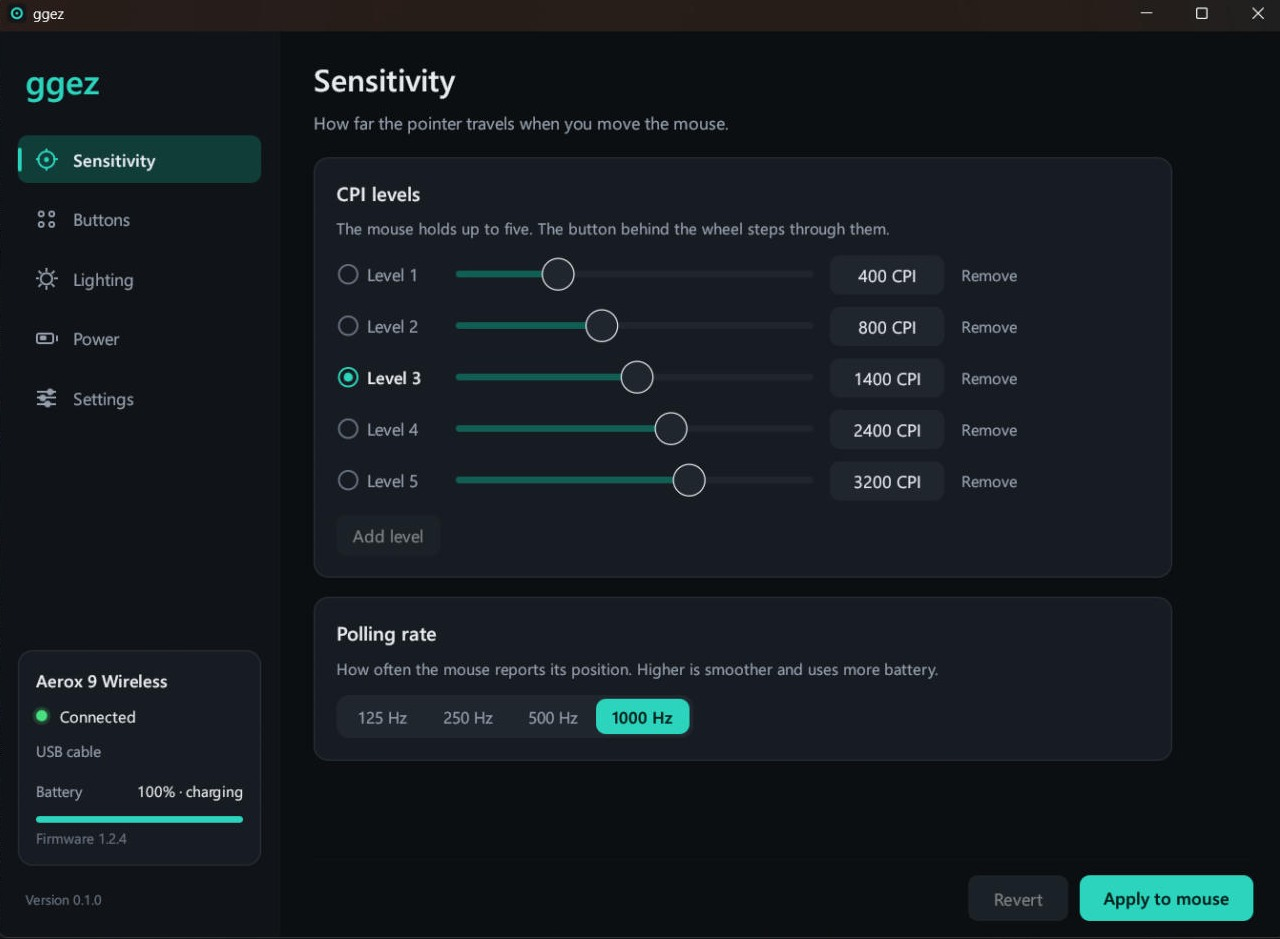
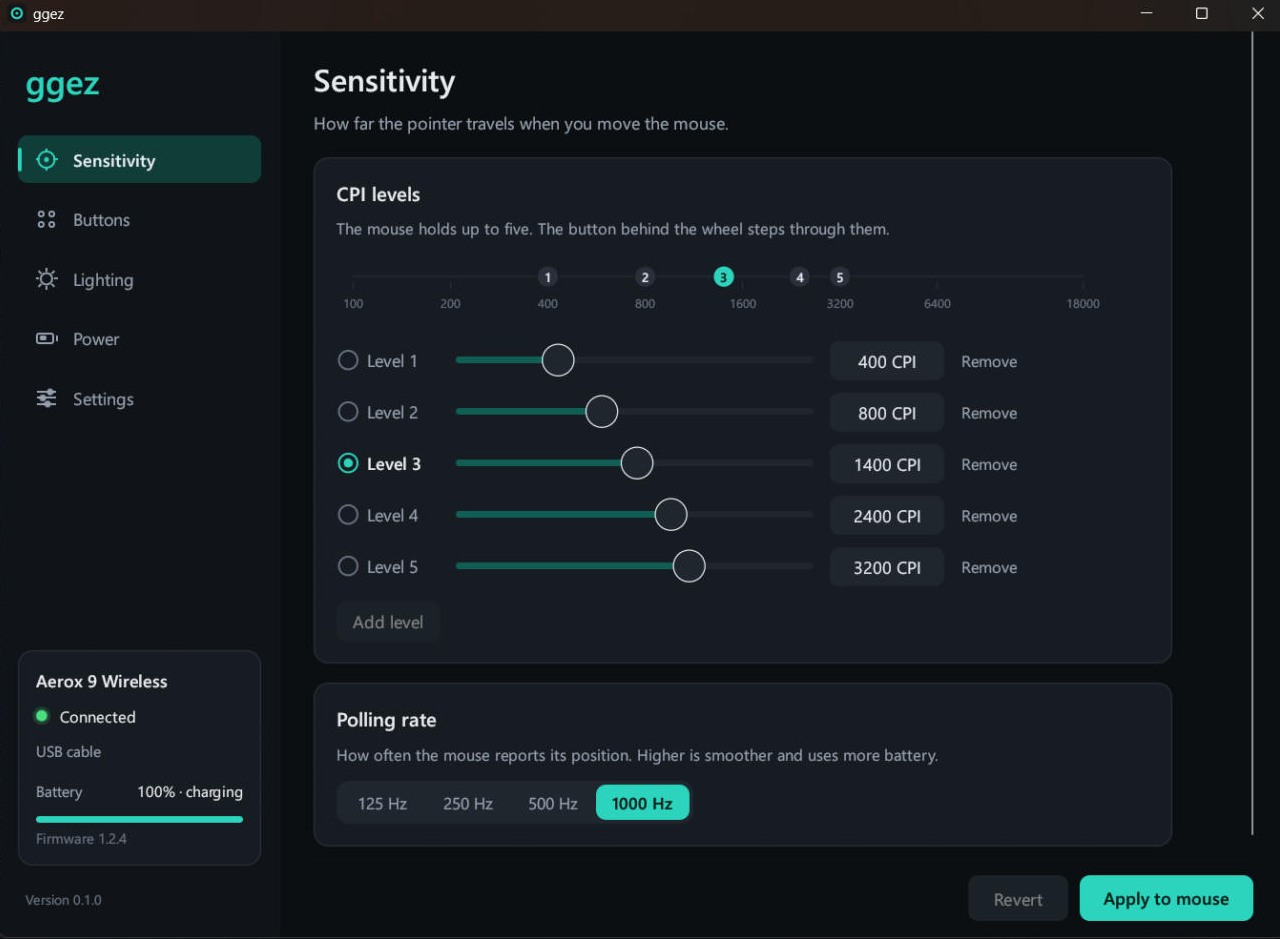
Show all CPI levels on one scale

diff --git a/crates/ggez-gui/src/app/view.rs b/crates/ggez-gui/src/app/view.rs
@@ -282,6 +282,8 @@ impl App {
                 "CPI levels",
                 "The mouse holds up to five. The button behind the wheel steps through them.",
             );
+            cpi_scale(ui, &self.draft.dpi, self.draft.dpi_selected);
+            ui.add_space(4.0);
             let mut remove = None;
             let count = self.draft.dpi.len();
             for index in 0..count {
@@ -1242,6 +1244,56 @@ fn battery_bar(ui: &mut Ui, percent: u8, charging: bool) {
     ui.painter()
         .rect_filled(filled, CornerRadius::same(3), color);
     response.on_hover_text("Battery level, in steps of 5%");
+}
+
+/// All the CPI levels on one line, so their spread can be seen at a glance.
+/// The line is logarithmic, like the sliders: each doubling is the same
+/// distance.
+fn cpi_scale(ui: &mut Ui, levels: &[u32], active: usize) {
+    let (rect, _) =
+        ui.allocate_exact_size(vec2(ui.available_width().min(640.0), 58.0), Sense::hover());
+    let rail = rect.left() + 14.0..=rect.right() - 14.0;
+    let x_of = |cpi: u32| {
+        let t = ((cpi as f32).ln() - 100f32.ln()) / (18_000f32.ln() - 100f32.ln());
+        egui::lerp(rail.clone(), t.clamp(0.0, 1.0))
+    };
+    let y = rect.top() + 18.0;
+    ui.painter()
+        .hline(rail.clone(), y, Stroke::new(2.0, RAISED));
+    for tick in [100u32, 200, 400, 800, 1600, 3200, 6400, 18_000] {
+        let x = x_of(tick);
+        ui.painter().line_segment(
+            [pos2(x, y + 5.0), pos2(x, y + 10.0)],
+            Stroke::new(1.0, LINE),
+        );
+        ui.painter().text(
+            pos2(x, y + 22.0),
+            Align2::CENTER_CENTER,
+            tick.to_string(),
+            FontId::proportional(10.5),
+            TEXT_FAINT,
+        );
+    }
+    // Draw the active level last so it sits on top of any it overlaps.
+    let mut order: Vec<usize> = (0..levels.len()).collect();
+    order.sort_by_key(|&i| i == active);
+    for i in order {
+        let centre = pos2(x_of(levels[i]), y);
+        let (fill, ink) = if i == active {
+            (ACCENT, theme::ON_ACCENT)
+        } else {
+            (theme::RAISED_HOVER, TEXT)
+        };
+        ui.painter().circle_filled(centre, 10.0, CARD);
+        ui.painter().circle_filled(centre, 8.5, fill);
+        ui.painter().text(
+            centre,
+            Align2::CENTER_CENTER,
+            (i + 1).to_string(),
+            FontId::new(11.0, theme::strong()),
+            ink,
+        );
+    }
 }
 
 /// The marker at the start of a CPI row: shows which level is active and
